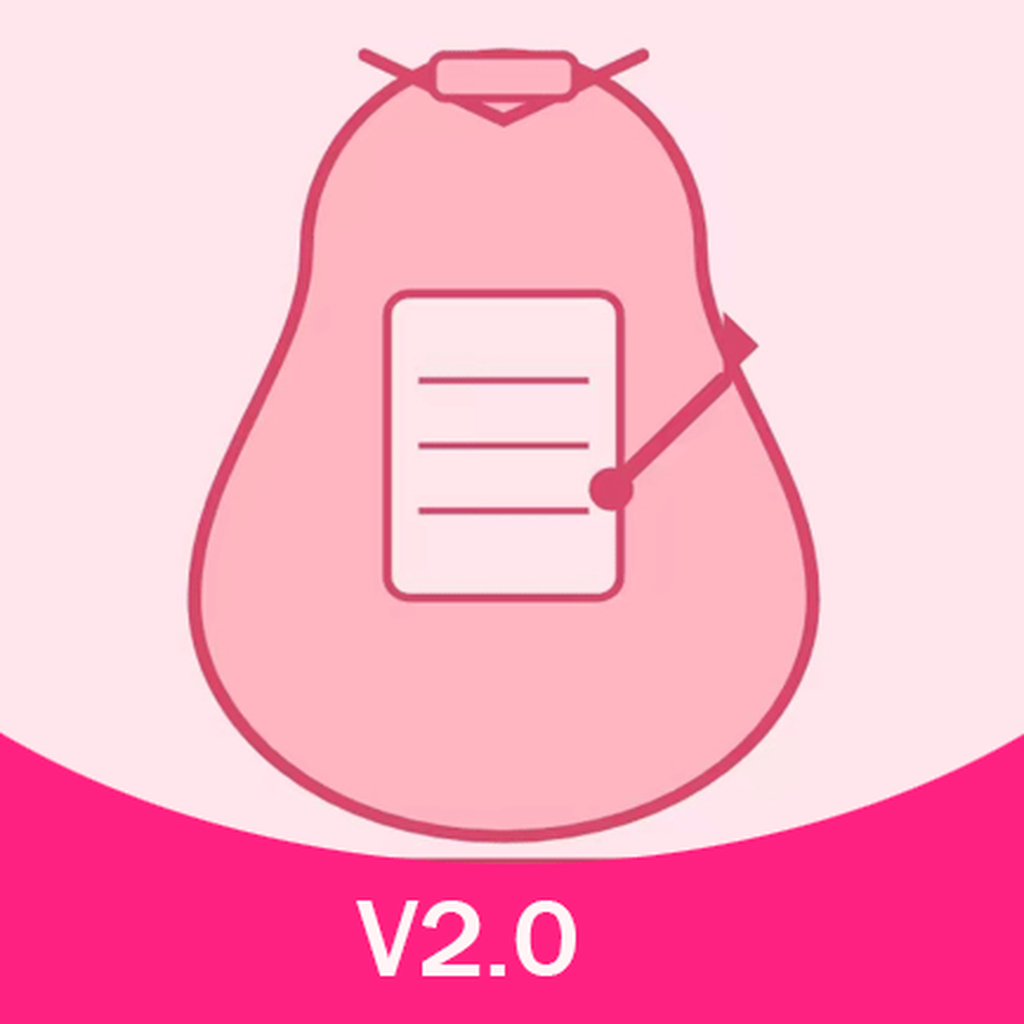
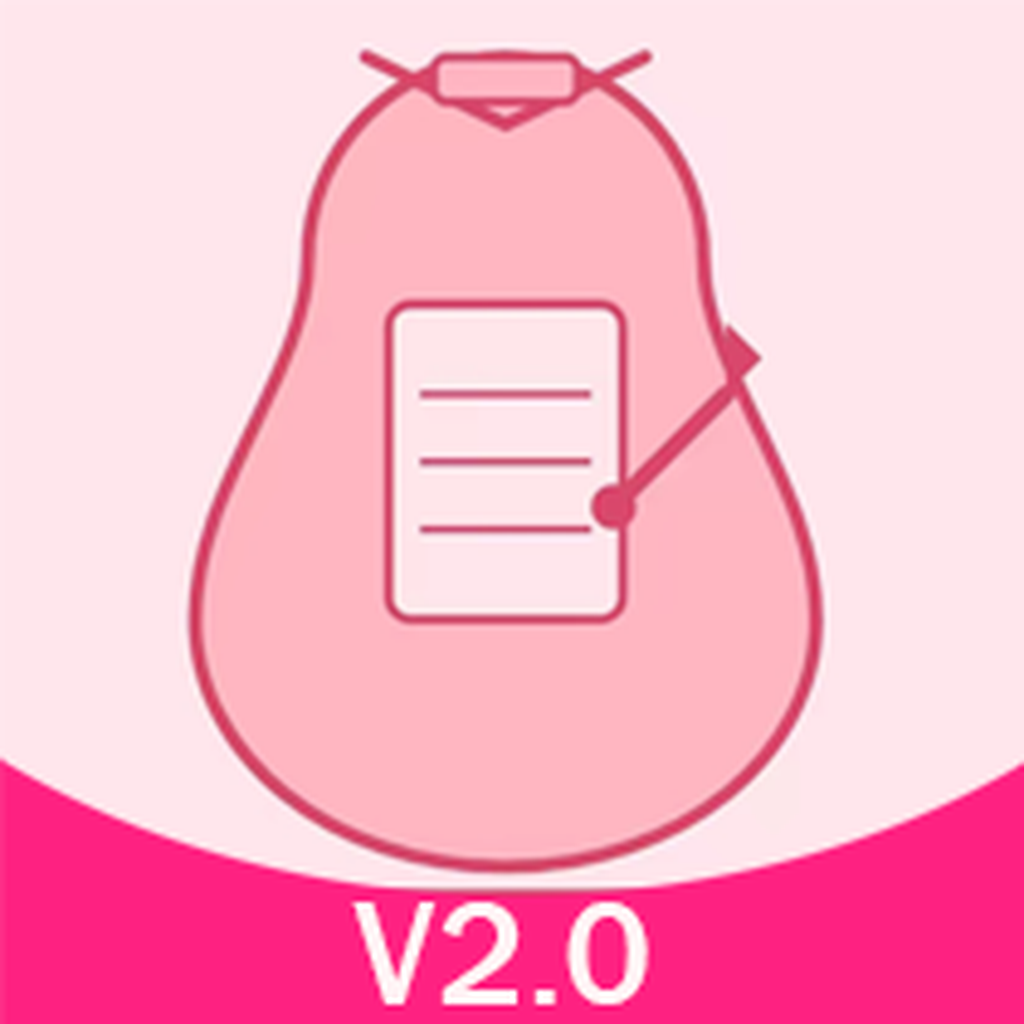
build: 提交 V2.0.1 版本 APK 构建请求
版本升级：
- 应用版本号：2.0.0 → 2.0.1
- Android版本代码：2 → 3

本次更新内容：
- 新图标（logo.png）
- 修复启动时声音播放问题
- 修复金额输入限制问题
- 修复密码重置后显示不更新的问题

构建ID：90bd8069-dfb0-4866-8fc0-8fefd58ab138
构建状态：new（排队中）

Changed region(s): [[0.0, 0.0312, 1.0, 1.0]]

diff --git a/client/app.config.ts b/client/app.config.ts
@@ -9,7 +9,7 @@ export default ({ config }: ConfigContext): ExpoConfig => {
     ...config,
     "name": appName,
     "slug": slugAppName,
-    "version": "2.0.0",
+    "version": "2.0.1",
     "orientation": "portrait",
     "icon": "./assets/images/icon.png",
     "scheme": "myapp",
@@ -29,7 +29,7 @@ export default ({ config }: ConfigContext): ExpoConfig => {
         "backgroundColor": "#ffffff"
       },
       "package": `com.anonymous.x${projectId || '0'}`,
-      "versionCode": 2
+      "versionCode": 3
     },
     "web": {
       "bundler": "metro",

diff --git a/client/assets/images/generate_icons.py b/client/assets/images/generate_icons.py
@@ -1,0 +1,34 @@
+#!/usr/bin/env python3
+from PIL import Image, ImageOps
+import os
+
+# 打开新图标
+input_path = '/workspace/projects/client/assets/images/logo-new.png'
+output_dir = '/workspace/projects/client/assets/images'
+
+with Image.open(input_path) as img:
+    print(f'原图尺寸: {img.size}')
+    print(f'模式: {img.mode}')
+    
+    # 转换为 RGBA 模式（支持透明度）
+    if img.mode != 'RGBA':
+        img = img.convert('RGBA')
+    
+    # 生成不同尺寸的图标
+    sizes = {
+        'icon.png': (1024, 1024),      # 主图标
+        'adaptive-icon.png': (1024, 1024),  # 自适应图标
+        'favicon.png': (192, 192),     # Web 图标
+        'splash-icon.png': (200, 200), # 启动页图标
+    }
+    
+    for filename, size in sizes.items():
+        # 使用高质量缩放算法
+        resized = img.resize(size, Image.Resampling.LANCZOS)
+        
+        # 保存为 PNG
+        output_path = os.path.join(output_dir, filename)
+        resized.save(output_path, 'PNG', optimize=True)
+        print(f'✅ 已生成 {filename} ({size[0]}x{size[1]})')
+
+print('\n🎉 所有图标生成完成！')
